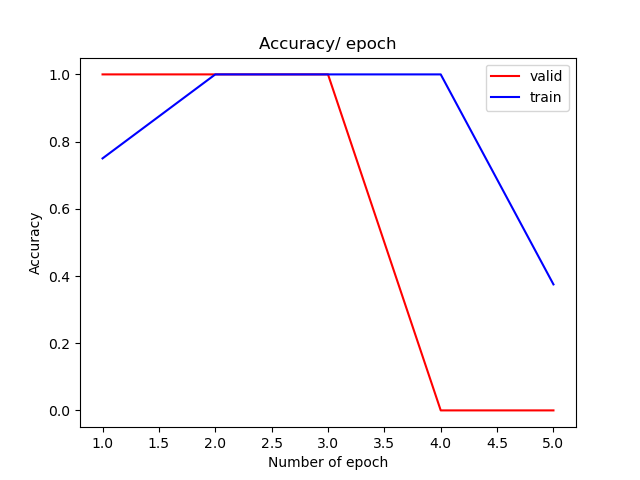
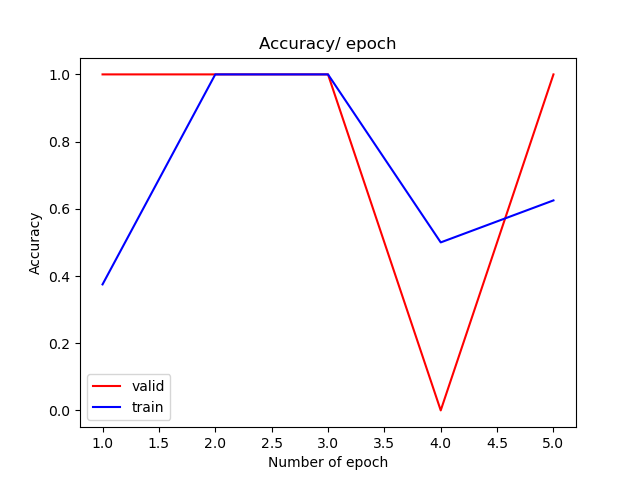
added test classification

diff --git a/tests/test_nn.py b/tests/test_nn.py
@@ -6,15 +6,15 @@ from deeprank_gnn.foutnet import FoutNet
 from deeprank_gnn.sGAT import sGAT
 
 
-def _model_base_test(database, model, plot):
+def _model_base_test(database, model, task='reg', target='irmsd', plot=False):
 
     NN = NeuralNet(database, model,
                    node_feature=['type', 'polarity', 'bsa',
                                  'depth', 'hse', 'ic', 'pssm'],
                    edge_feature=['dist'],
-                   target='irmsd',
+                   target=target,
                    index=None,
-                   task='reg',
+                   task=task,
                    batch_size=64,
                    percent=[0.8, 0.2])
 
@@ -38,13 +38,17 @@ class TestNeuralNet(unittest.TestCase):
         self.database = 'tests/hdf5/1ATN_residue.hdf5'
 
     def test_ginet(self):
-        _model_base_test(self.database, GINet, True)
+        _model_base_test(self.database, GINet, plot=True)
+
+    def test_ginet_class(self):
+        _model_base_test(self.database, GINet,
+                         task='class', target='binclass')
 
     def test_fout(self):
-        _model_base_test(self.database, FoutNet, False)
+        _model_base_test(self.database, FoutNet)
 
     def test_sgat(self):
-        _model_base_test(self.database, sGAT, False)
+        _model_base_test(self.database, sGAT)
 
 
 if __name__ == "__main__":
